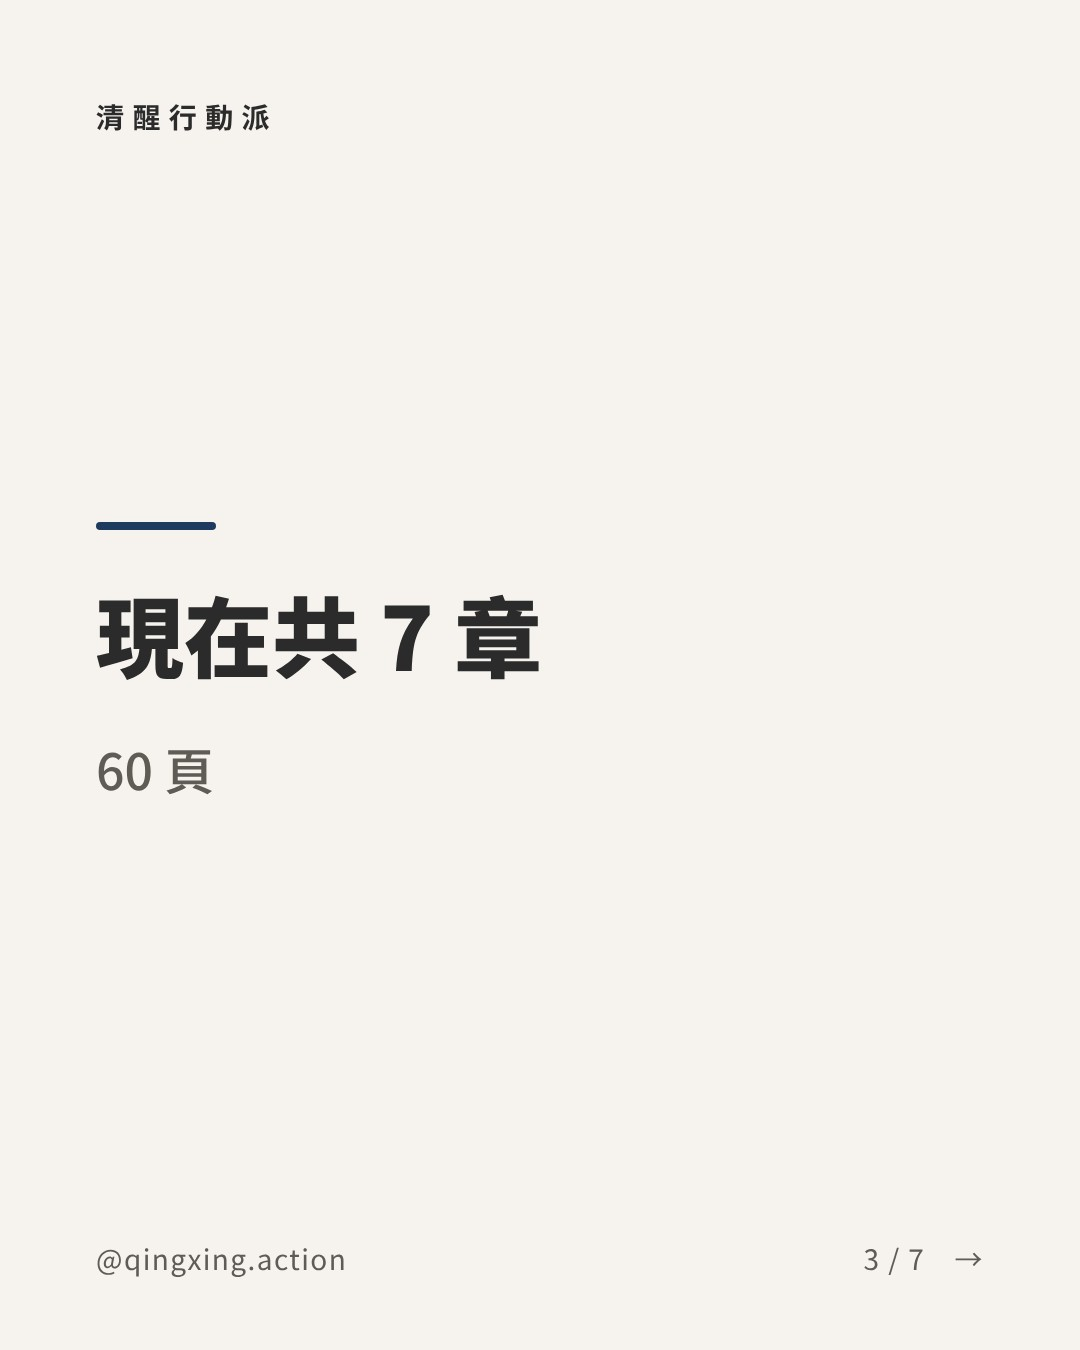
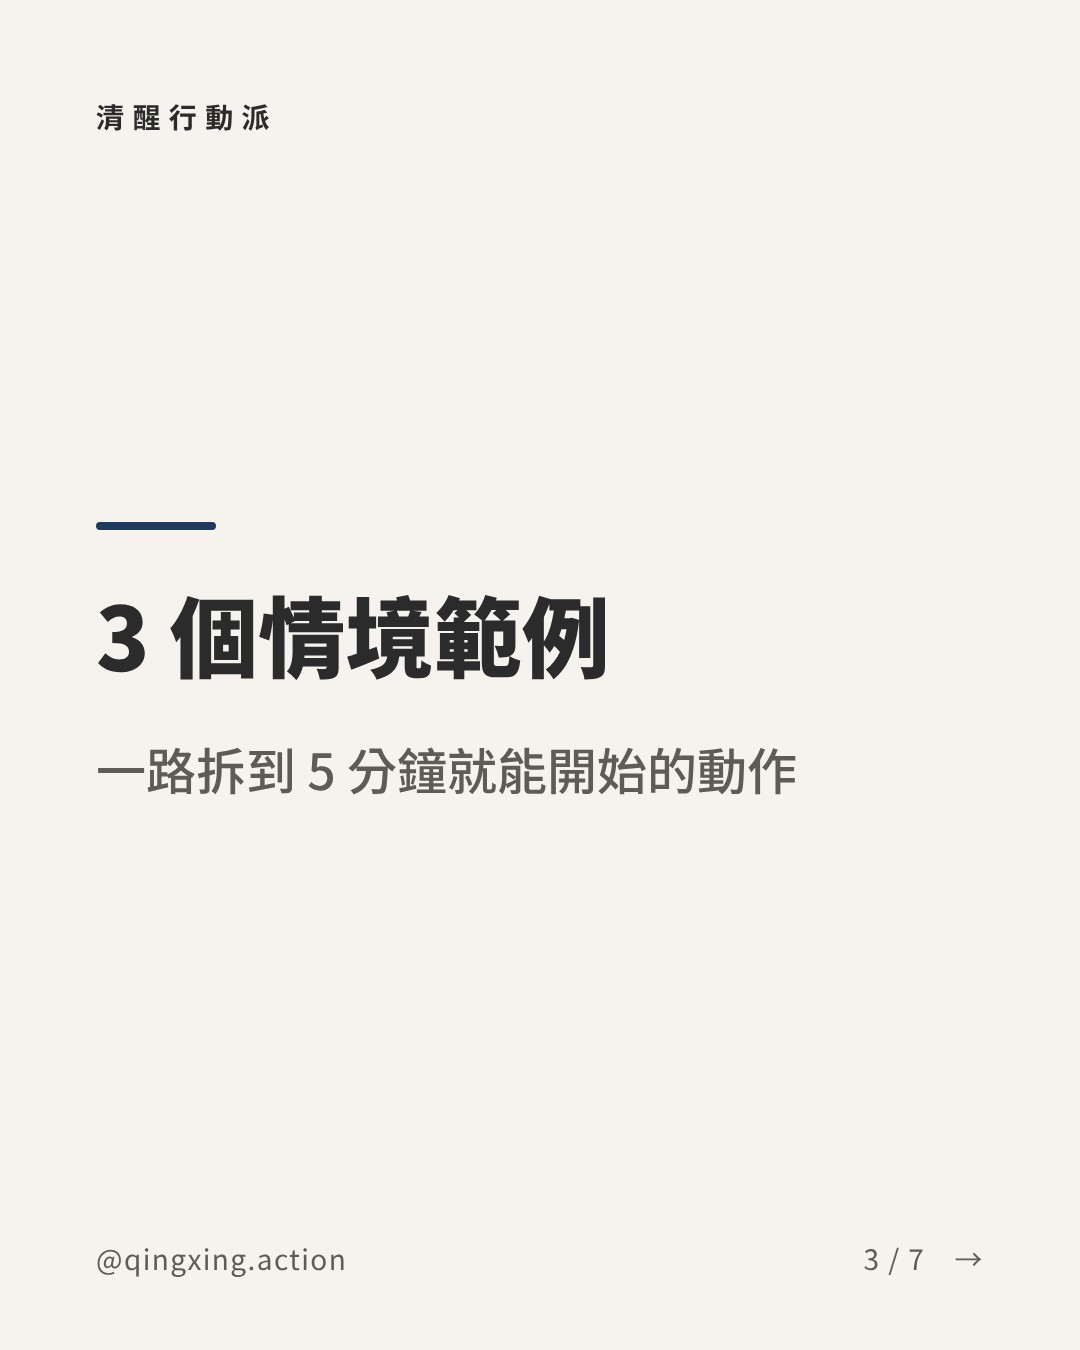
qingxing: Day 24 貼文不寫頁數，改寫內容與範例
Claude-Session: https://claude.ai/code/session_016ub6HVfmbt68BdywDv2i6d

Changed region(s): [[0.0917, 0.4356, 0.7333, 0.5911]]

diff --git a/qingxing/instagram/posts/2026-12-03-day24-ebook-v2.md b/qingxing/instagram/posts/2026-12-03-day24-ebook-v2.md
@@ -10,7 +10,7 @@ images:
   - qingxing/ig/2026-12-03-day24-ebook-v2-7.jpg
 status: ready
 ---
-V2 更新了，新增 20 頁的拖延拆解工作頁，價格調為 NT$690。
+V2 更新了，新增第 7 章拖延拆解工作頁，附 3 個情境範例，價格調為 NT$690。
 
 已經買的人免費拿到新版。12/17 會再加一章，12/31 起調為 NT$990，在那之前買的人之後的更新都免費。連結在首頁。
 
